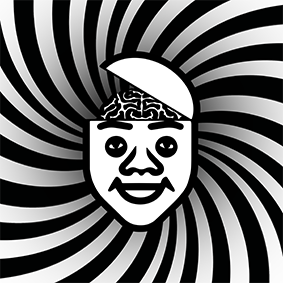
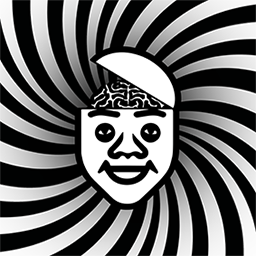
meta images now working

diff --git a/build/index.html b/build/index.html
@@ -1,1 +1,1 @@
-<!doctype html><html lang="en"><head><meta charset="utf-8"/><link rel="icon" href="/favicon.ico"/><meta name="viewport" content="width=device-width,initial-scale=1"/><meta name="theme-color" content="#000000"/><meta name="description" content="Join the cult and buy your tickets"/><link rel="apple-touch-icon" href="/face.png"/><link rel="manifest" href="/manifest.json"/><meta property="og:image" content="https://children-of-joy.co.uk/face-on-square-small.png"><meta property="og:title" content="Children Of Joy"><meta property="og:type" content="website"><meta property="og:url" content="https://children-of-joy.co.uk/"><title>Children of Joy</title><script defer="defer" src="/static/js/main.fa924169.js"></script><link href="/static/css/main.6e7a2d30.css" rel="stylesheet"></head><body><div id="root"></div></body></html>
+<!doctype html><html lang="en"><head><meta charset="utf-8"/><link rel="icon" href="/favicon.ico"/><meta name="viewport" content="width=device-width,initial-scale=1"/><meta name="theme-color" content="#000000"/><meta name="description" content="Join the cult and buy your tickets"/><link rel="apple-touch-icon" href="/face.png"/><link rel="manifest" href="/manifest.json"/><meta property="og:image:secure_url" itemprop="image" content="https://children-of-joy.co.uk/face-on-square-small.png"><meta property="og:image" itemprop="image" content="https://children-of-joy.co.uk/face-on-square-small.png"><meta property="og:title" content="Children Of Joy"><meta property="og:description" content="Join the cult and buy your tickets"/><meta property="og:site_name" content="Children Of Joy"><meta property="og:type" content="website"><meta property="og:url" content="https://children-of-joy.co.uk/"><meta property="og:updated_time" content="1649023850"/><title>Children of Joy</title><script defer="defer" src="/static/js/main.fa924169.js"></script><link href="/static/css/main.6e7a2d30.css" rel="stylesheet"></head><body><div id="root"></div></body></html>

diff --git a/public/index.html b/public/index.html
@@ -9,10 +9,15 @@
   <meta name="description" content="Join the cult and buy your tickets" />
   <link rel="apple-touch-icon" href="/face.png" />
   <link rel="manifest" href="/manifest.json" />
-  <meta property="og:image" content="https://children-of-joy.co.uk/face-on-square-small.png">
+  <meta property="og:image:secure_url" itemprop="image"
+    content="https://children-of-joy.co.uk/face-on-square-small.png">
+  <meta property="og:image" itemprop="image" content="https://children-of-joy.co.uk/face-on-square-small.png">
   <meta property="og:title" content="Children Of Joy">
+  <meta property="og:description" content="Join the cult and buy your tickets" />
+  <meta property="og:site_name" content="Children Of Joy">
   <meta property="og:type" content="website">
   <meta property="og:url" content="https://children-of-joy.co.uk/">
+  <meta property="og:updated_time" content="1649023850" />
   </link>
   <title>Children of Joy</title>
 </head>
